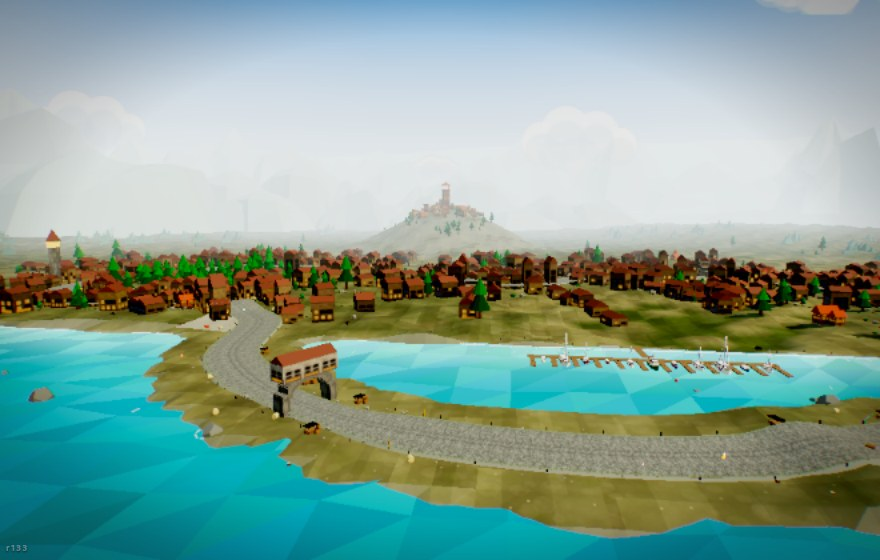
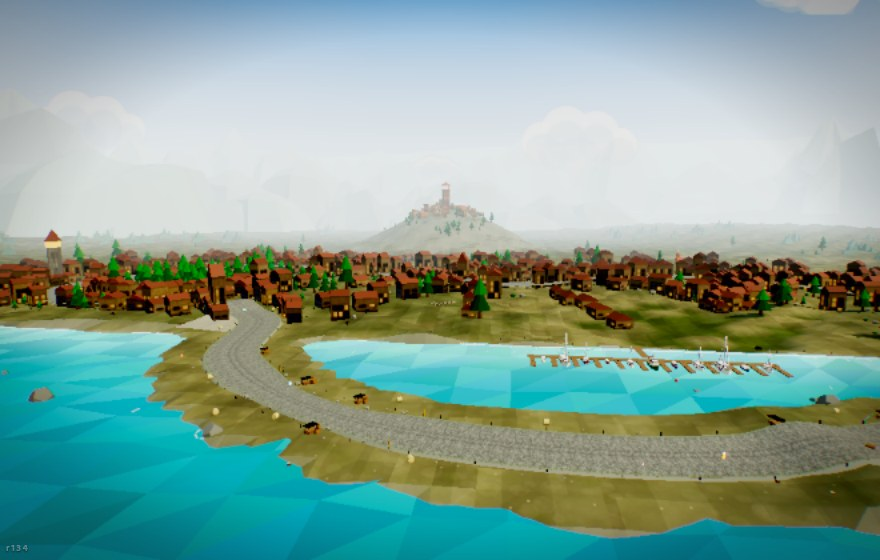
r135: drop the gatehouse and the nine sheds from CITADEL BAY
"Remove this. It is too repetitive" - pointed at a long red-roofed
building on piers straddling the seafront road.

It is `_buildArchGateway`: a terrace of unit-width bays carried on piers
across the street, built TWICE on every frontage world. The comment on it
even says the bays are what make it read as a gatehouse - and it is the
same shape the player called out earlier as "this house I see everywhere".
It is now opt-out (`archGates: false`), and CITADEL BAY opts out.

I MISIDENTIFIED IT FIRST. The raycast came back with material 0x7a4630,
which is the theme's `hutRoof` - so I removed the nine huts and re-rendered
the card, and the building was still standing there. `hutRoof` is read by
five different builders; the colour named the paint, not the object. The
huts stay removed regardless - nine copies of one shed scattered through a
world whose point is a varied Mediterranean shore is its own repetition,
and this world dresses its land with the medhill kit and the citadel.

Still on the other frontage worlds: the gatehouse is unchanged there. Say
the word and it comes out everywhere.

Claude-Session: https://claude.ai/code/session_01M5Jrb8Cm9Sq2nLCRsN4VNP

Changed region(s): [[0.0, 0.425, 1.0, 0.6071], [0.3068, 0.6071, 0.3989, 0.7589]]

diff --git a/src/track.js b/src/track.js
@@ -2524,7 +2524,12 @@ const THEMES = {
     rockCount: 175, pebbleCount: 220, rockColor: 0x8e8a7a, rockSnowCap: false,
     flowerCount: 120, flowerColors: ['#ffffff', '#e0b040', '#c05a78'],
     hutRoof: 0x7a4630, hayColor: 0xd0b878,
-    hutCount: 9, hutZone: [0.55, 0.35], hayCount: 10,
+    // NO HUTS. Nine copies of one long red-roofed shed, scattered through a
+    // world whose whole point is a varied Mediterranean shore, is the
+    // building the player pointed at and called too repetitive - and it is
+    // the second time that same shed has been reported. This world dresses
+    // its land with the medhill element kit and the citadel instead.
+    hutCount: 0, hutZone: [0.55, 0.35], hayCount: 6,
     splinter: [0x8a5a32, 0xe0d8c0],
     elev: { amp: 5, ph: [0.9, 2.1, 3.0] },
     rampMaxCurv: 0.02, padMaxCurv: 0.006, boardMaxCurv: 0.018,
@@ -2550,6 +2555,8 @@ const THEMES = {
     // quay dressing: capstone edge wall, bollards, barrels, crates, rope
     // coils on the stone, and boats moored close in (see _buildQuayside)
     quay: true,
+    archGates: false,      // no gatehouse straddling the seafront
+
     stoneBridges: { count: 1 },
     // the landmark this world is built around
     citadel: true,
@@ -12101,7 +12108,13 @@ if (this._citMound) h += this._citMoundH(x, z);
     }
 
     // ---- 3: the arched gateways over the authored pinches (two per stage) ----
-    for (const sec of (this._narrowSecs || []).slice(0, 2)) this._buildArchGateway(sec.mid, F);
+    // ARCH GATEWAYS ARE OPT-OUT. The gatehouse that straddles the street -
+    // a terrace of unit-width bays on piers - is a strong shape, and the
+    // player has now pointed at it twice as the building they see
+    // everywhere. Worlds that do not want it say so.
+    if (this.T.archGates !== false) {
+      for (const sec of (this._narrowSecs || []).slice(0, 2)) this._buildArchGateway(sec.mid, F);
+    }
 
     // ---- 4: the campanile ----
     this._buildCampanile();

diff --git a/index.html b/index.html
@@ -881,7 +881,7 @@
 </div>
 <div id="damage-vignette"></div>
 <div id="polish-vignette"></div>
-<div id="build-tag">r134</div>
+<div id="build-tag">r135</div>
 <div id="fade"></div>
 
 <div id="touch-ui">
@@ -1097,10 +1097,10 @@
   // its URL + anon key here. Leave empty to keep sync codes only.
   window.IGNITE_SYNC = { url: '', key: '' };
 </script>
-<script type="module" src="./src/main.js?v=r134"></script>
+<script type="module" src="./src/main.js?v=r135"></script>
 <!-- offline arming: registers sw.js and drives the flight badge -->
-<script src="./src/offline.js?v=r134"></script>
+<script src="./src/offline.js?v=r135"></script>
 <!-- rural traffic: self-attaching, polls window.__game (no engine hooks) -->
-<script type="module" src="./src/traffic.js?v=r134"></script>
+<script type="module" src="./src/traffic.js?v=r135"></script>
 </body>
 </html>

diff --git a/sw.js b/sw.js
@@ -16,7 +16,7 @@
  * CACHE is bumped by the release version. Bump it whenever ?v= in index.html
  * is bumped, or phones will keep serving the previous build forever.
  */
-const CACHE = 'ignite-rally-r134';
+const CACHE = 'ignite-rally-r135';
 
 // ---- CORE vs EXTRA ---------------------------------------------------------
 // CORE is everything the game needs to RUN with the radio off: the shell, the
